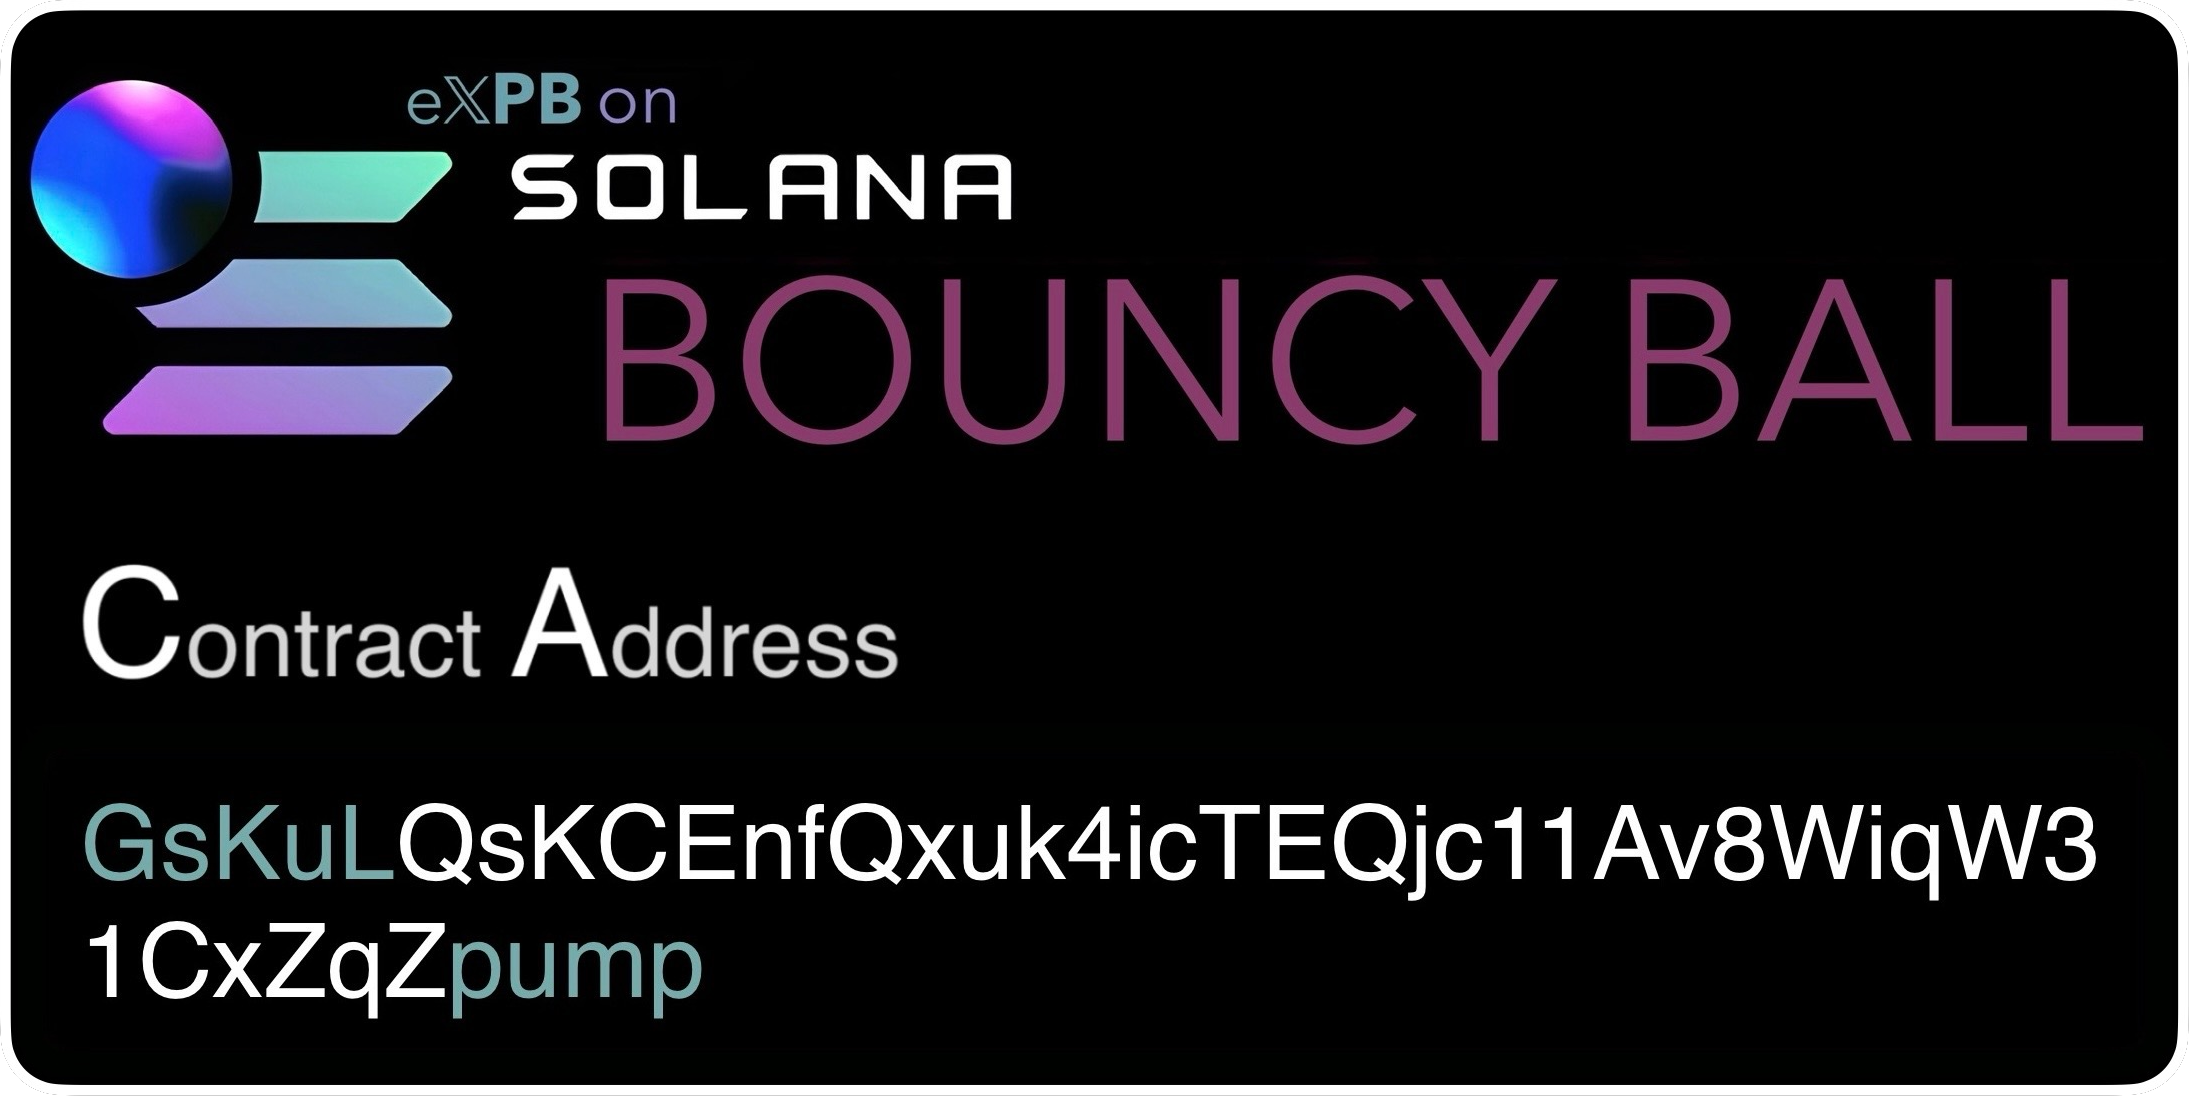
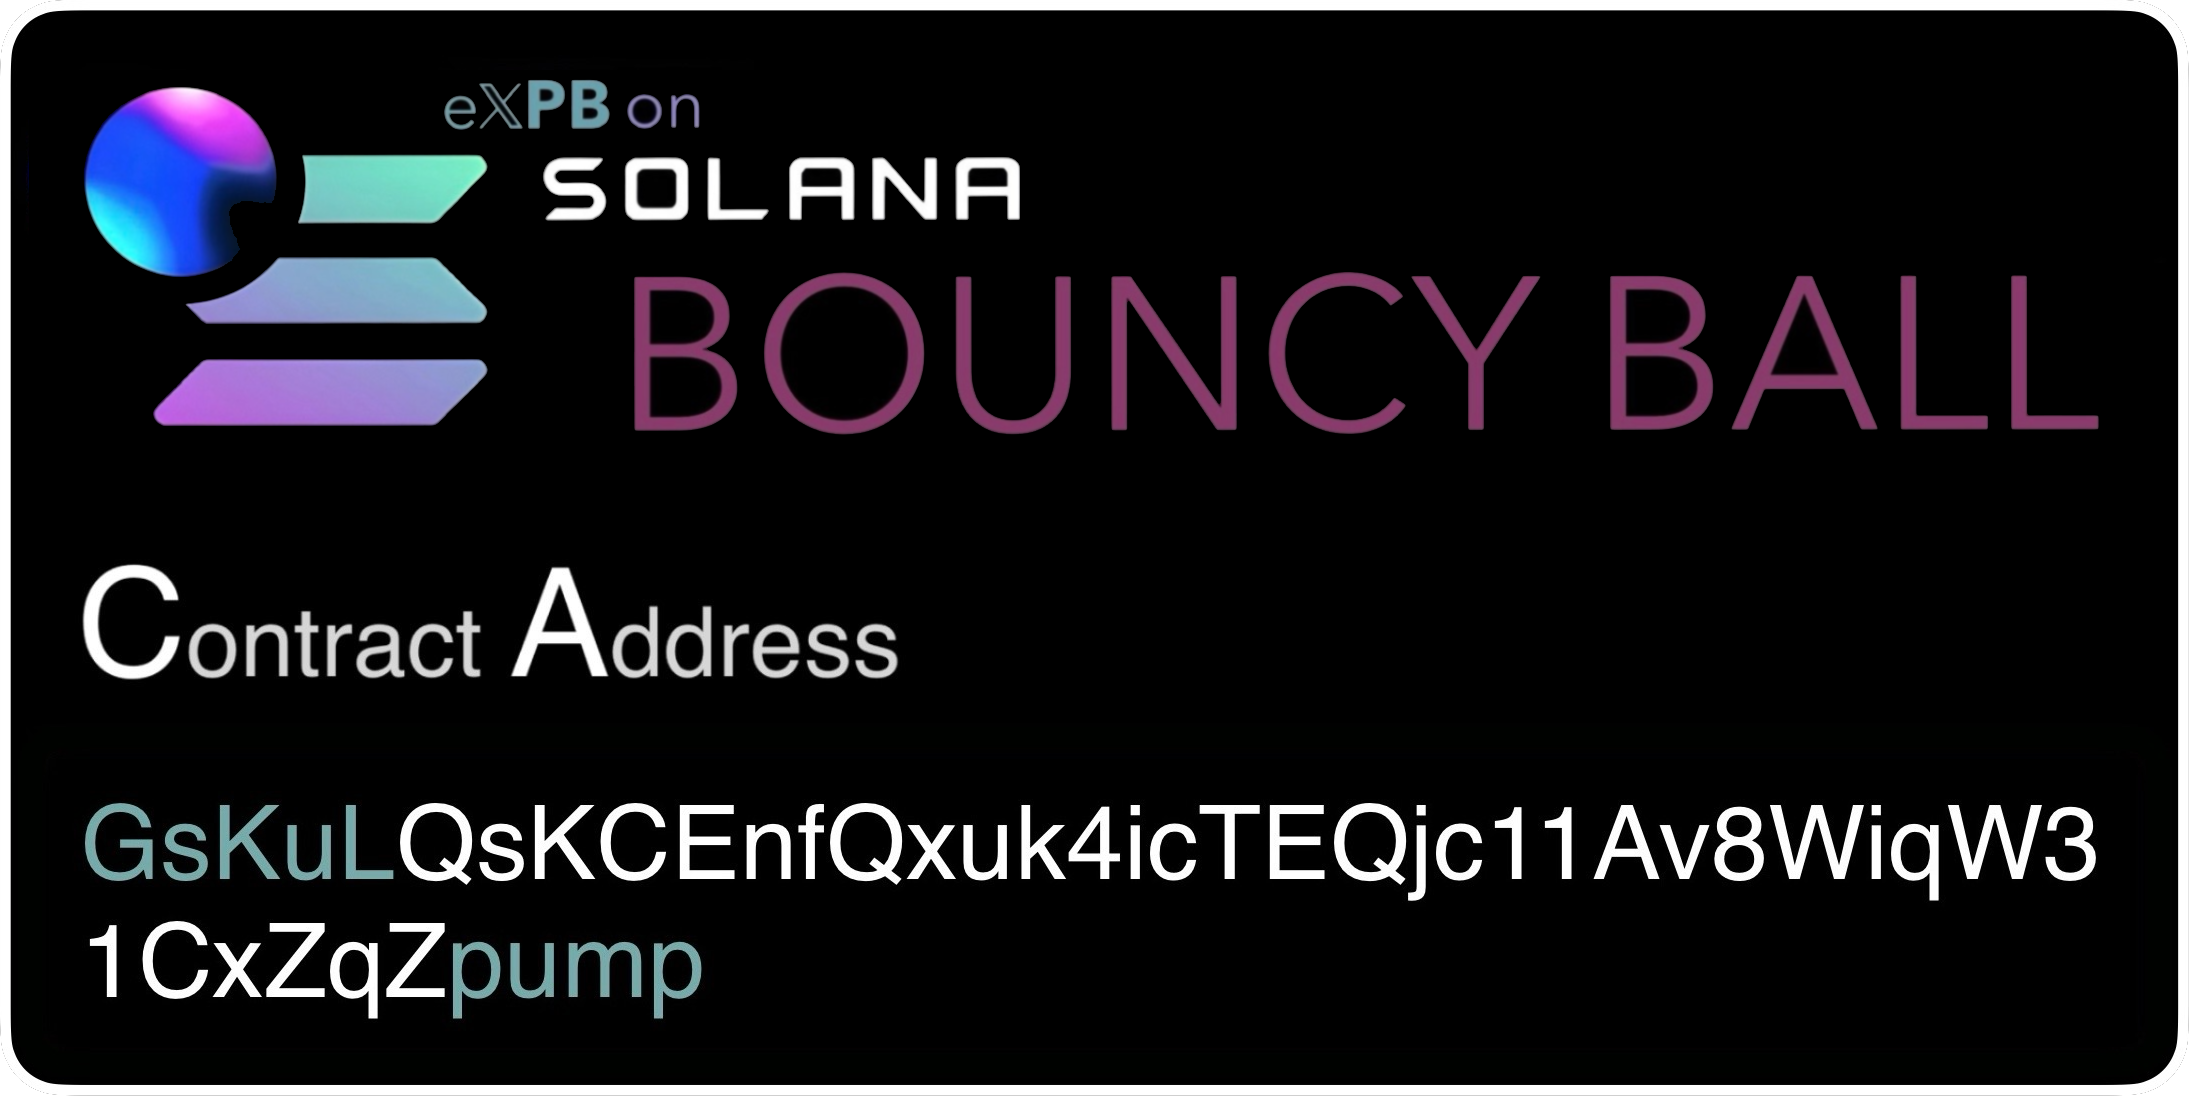
Updates OpenGraph image and header image on token page and some minor text changes.

Changed region(s): [[0.2485, 0.2482, 0.9941, 0.4033], [0.0, 0.062, 0.466, 0.4033]]

diff --git a/bouncyball.html b/bouncyball.html
@@ -43,15 +43,15 @@
 	<!-- Open Graph Meta Tags -->
 	<meta property="og:title" content="e𝕏PB Bouncy Ball | OFiDCrypt">
 	<meta property="og:description" content="Tune in to OFiDCrypt to check the price of the e𝕏PB Token.">
-	<meta property="og:image" content="https://www.ofidcrypt.com/assets/images/bglogo01.webp">
+	<meta property="og:image" content="https://www.ofidcrypt.com/assets/images/webp/bg-expb-bouncyball.webp">
 	<meta property="og:url" content="https://www.ofidcrypt.com/bouncyball">
 	<meta property="og:type" content="website">
 
 	<!-- Twitter Card Meta Tags -->
 	<meta name="twitter:card" content="summary_large_image">
-	<meta name="twitter:title" content="e𝕏PB Chart DEX Screener | OFiDCrypt">
+	<meta name="twitter:title" content="e𝕏PB Bouncy Ball | OFiDCrypt">
 	<meta name="twitter:description" content="Tune in to OFiDCrypt to check the price of the e𝕏PB Token.">
-	<meta name="twitter:image" content="https://www.ofidcrypt.com/assets/images/bglogo01.webp">
+	<meta name="twitter:image" content="https://www.ofidcrypt.com/assets/images/webp/bg-expb-bouncyball.webp">
 	<meta name="twitter:url" content="https://www.ofidcrypt.com/bouncyball">
 
 	<!-- Default ICO file with multiple sizes -->
@@ -90,7 +90,7 @@
 		<!-- Header Subpage-->
 		<header class="header-subpage">
 			<a href="/index.html">
-				<img src="/assets/images/logo01.png" alt="OFiDCrypt Logo" class="logo">
+				<img src="/assets/images/ofid-expb-logo.png" alt="OFiDCrypt Logo" class="logo">
 			</a>
 		</header>
 
@@ -177,7 +177,7 @@
 					<!-- Video 1 - TikTok Embed -->
 					<div class="tiktok-video-wrapper">
 						<header class="tiktok-header">
-							<h2>Come Check This</h2>
+							<h2>Bulletins</h2>
 						</header>
 						<div class="tiktok video main">
 							<blockquote class="tiktok-embed" cite="https://www.tiktok.com/@ofidcrypt/video/7504411238621924663"
